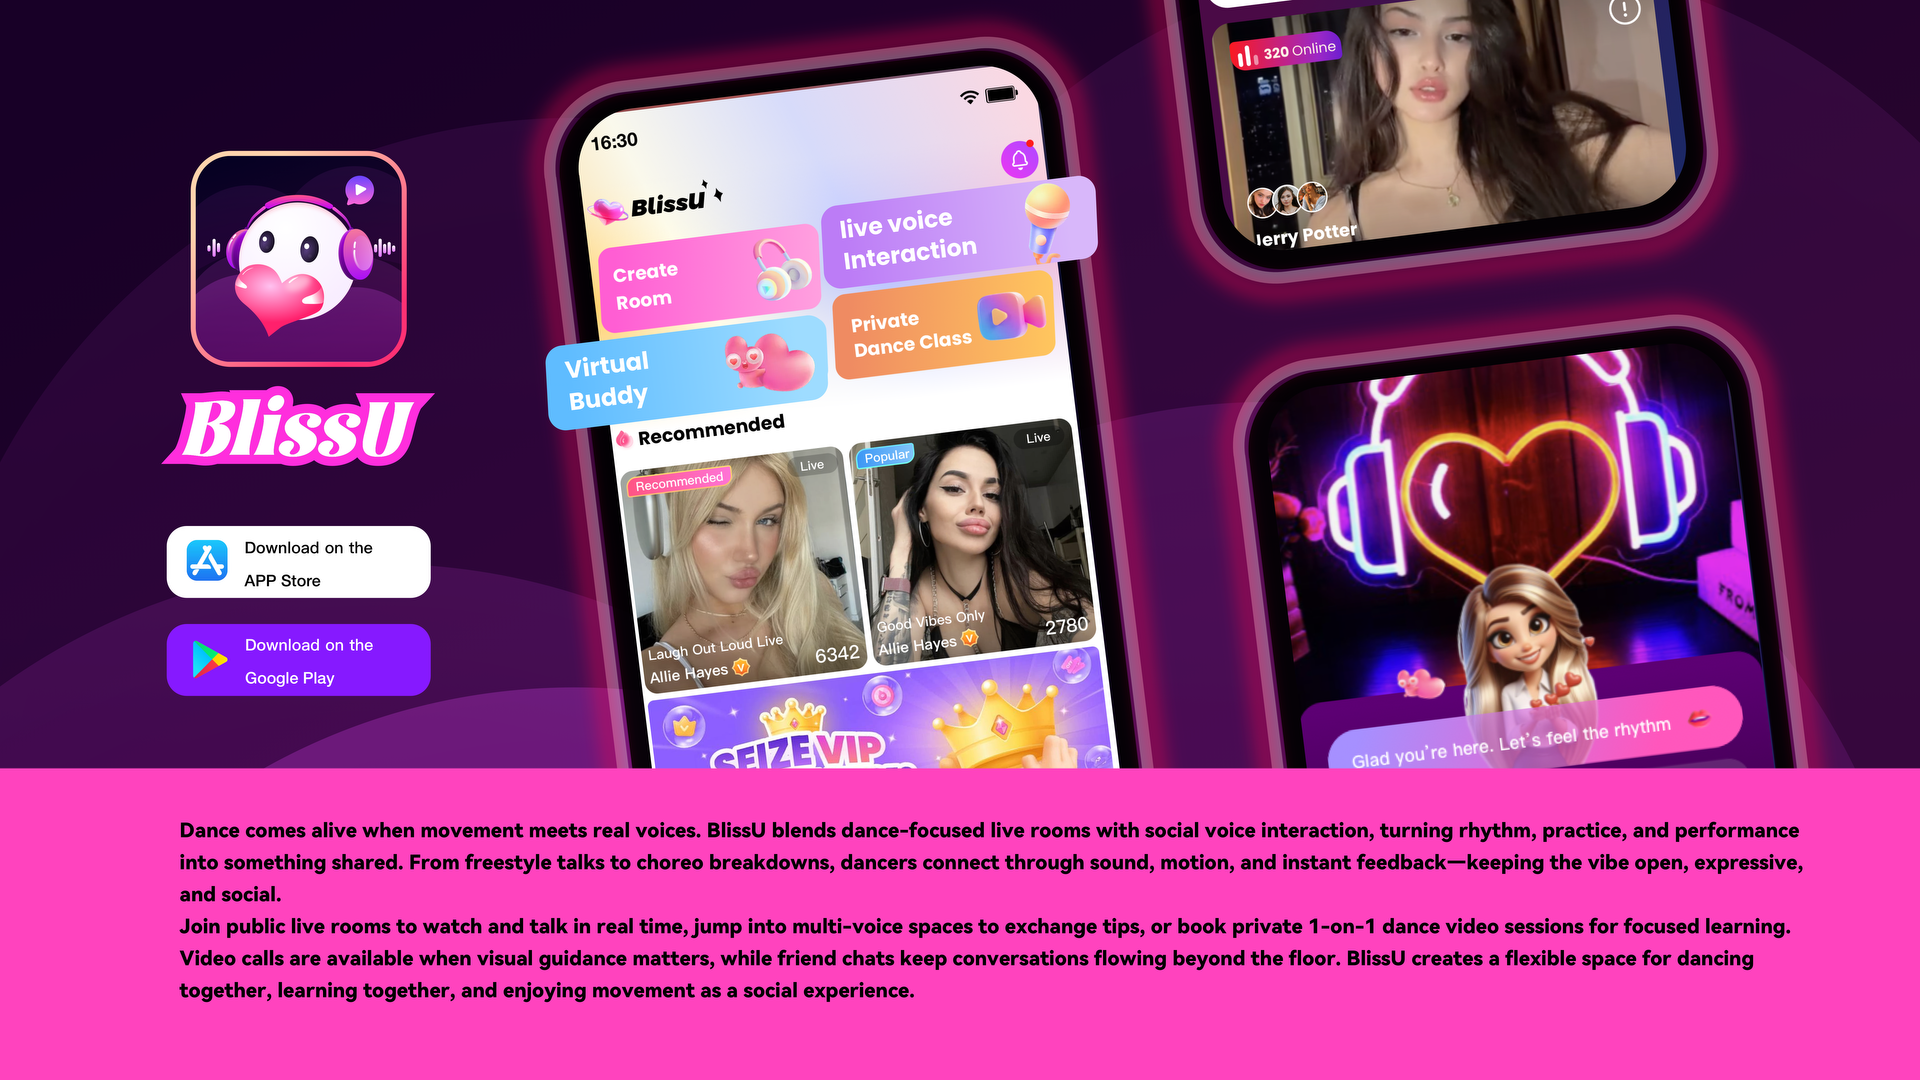
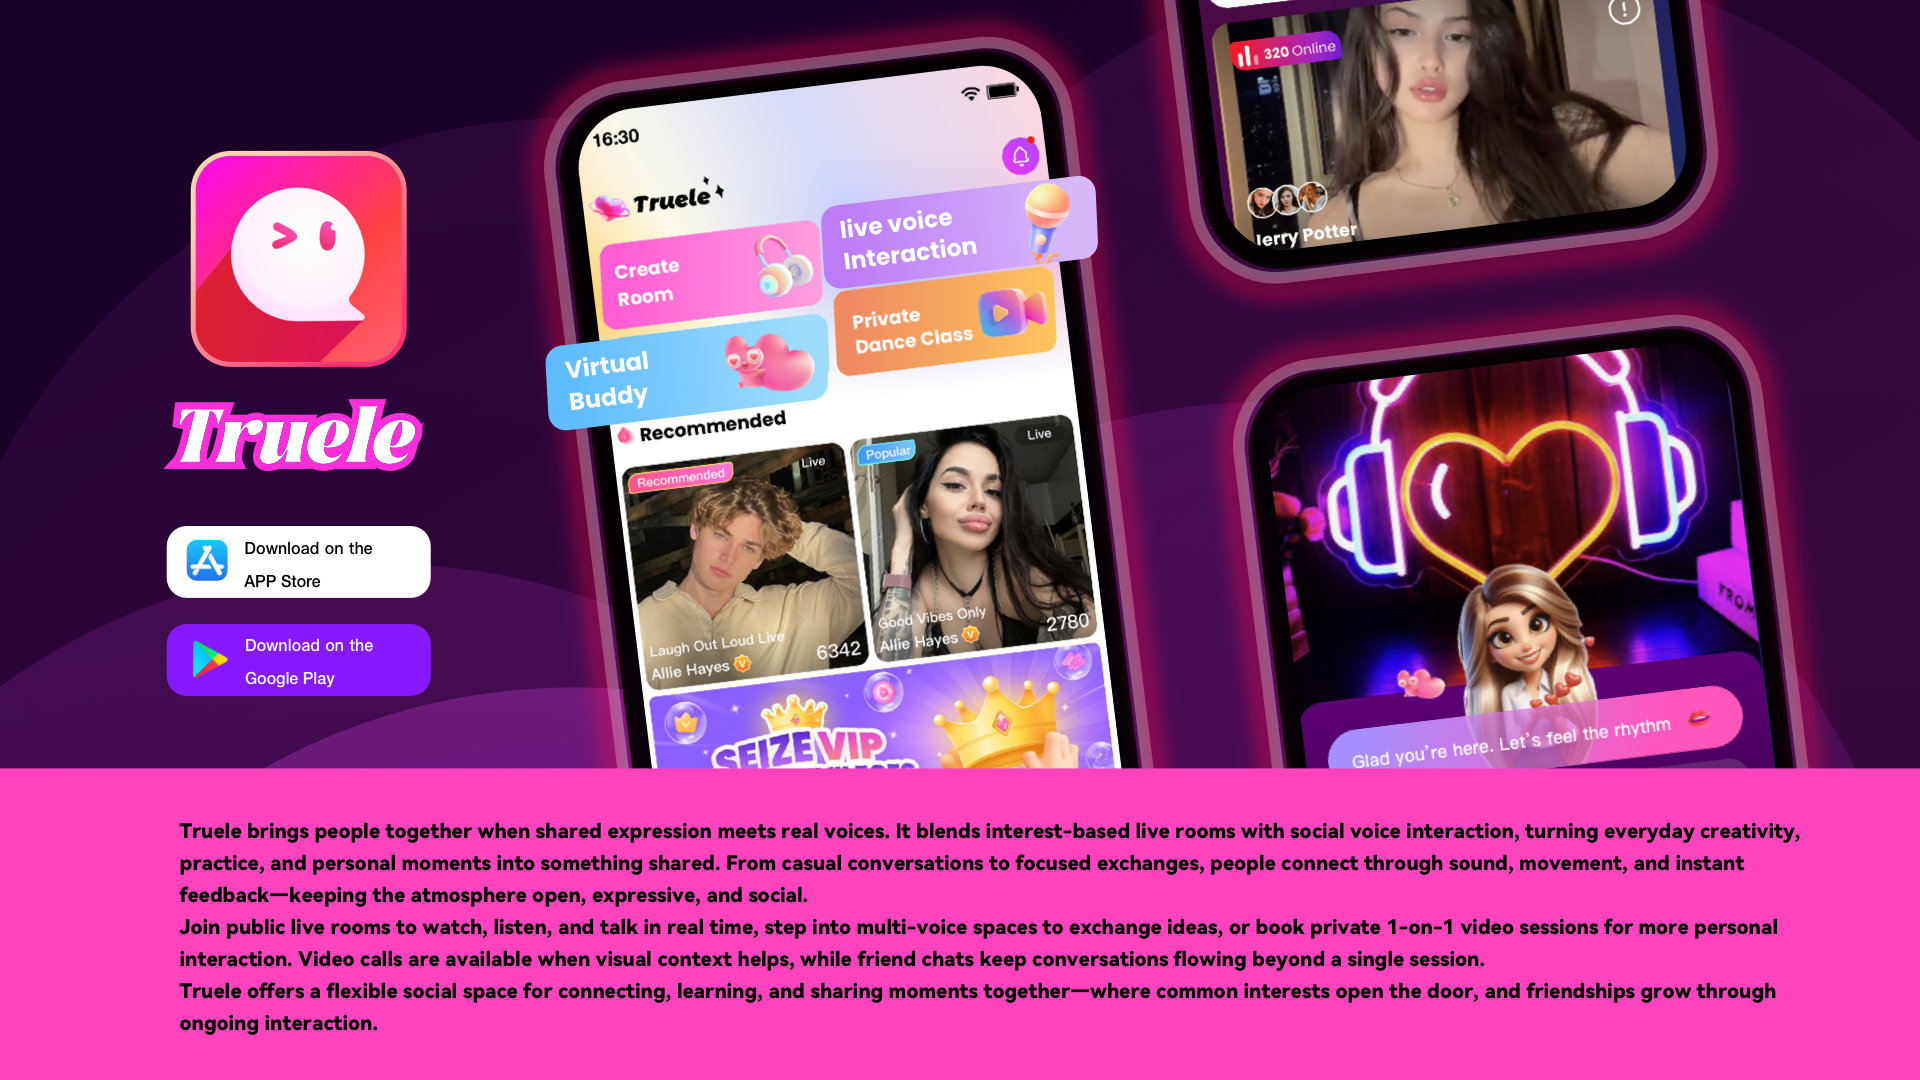
update BlissU

diff --git a/index.html b/index.html
@@ -4,7 +4,7 @@
   <meta charset="UTF-8">
   <meta name="viewport" content="width=device-width, initial-scale=1.0">
   <link rel="icon" href="/favicon.svg" type="image/svg+xml">
-  <title>BlissU</title>
+  <title>Truele</title>
   <meta name="description" content="Opinionated Vite Starter Template">
 </head>
 <body class="font-sans">

diff --git a/src/pages/index.vue b/src/pages/index.vue
@@ -10,7 +10,7 @@ defineOptions({
 
     <div class="email" absolute bottom-10 w-full flex justify-center>
       <div rd-2 bg-black p-2 p-x-5 text-8 color-white>
-        BlissU99826@gmail.com
+        Truele99826@gmail.com
       </div>
     </div>
   </div>

diff --git a/src/pages/privacy.vue b/src/pages/privacy.vue
@@ -2,7 +2,7 @@
 defineOptions({
   name: 'IndexPage',
 })
-const appName = 'BlissU'
+const appName = 'Truele'
 </script>
 
 <template>

diff --git a/src/pages/users.vue b/src/pages/users.vue
@@ -2,7 +2,7 @@
 defineOptions({
   name: 'IndexPage',
 })
-const appName = 'BlissU'
+const appName = 'Truele'
 </script>
 
 <template>
